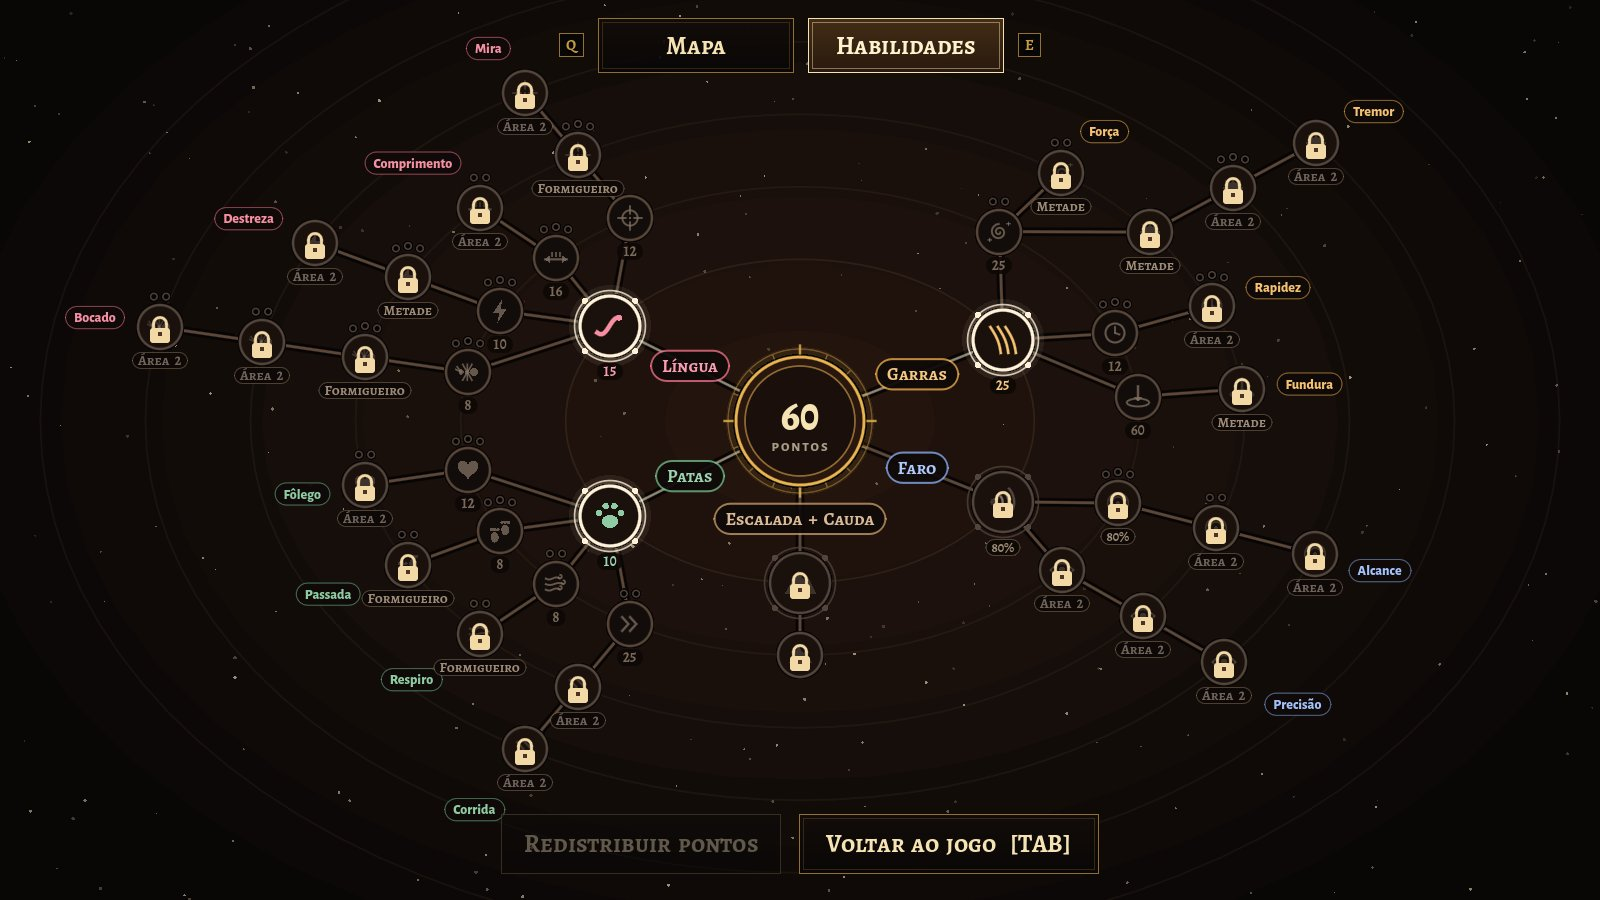
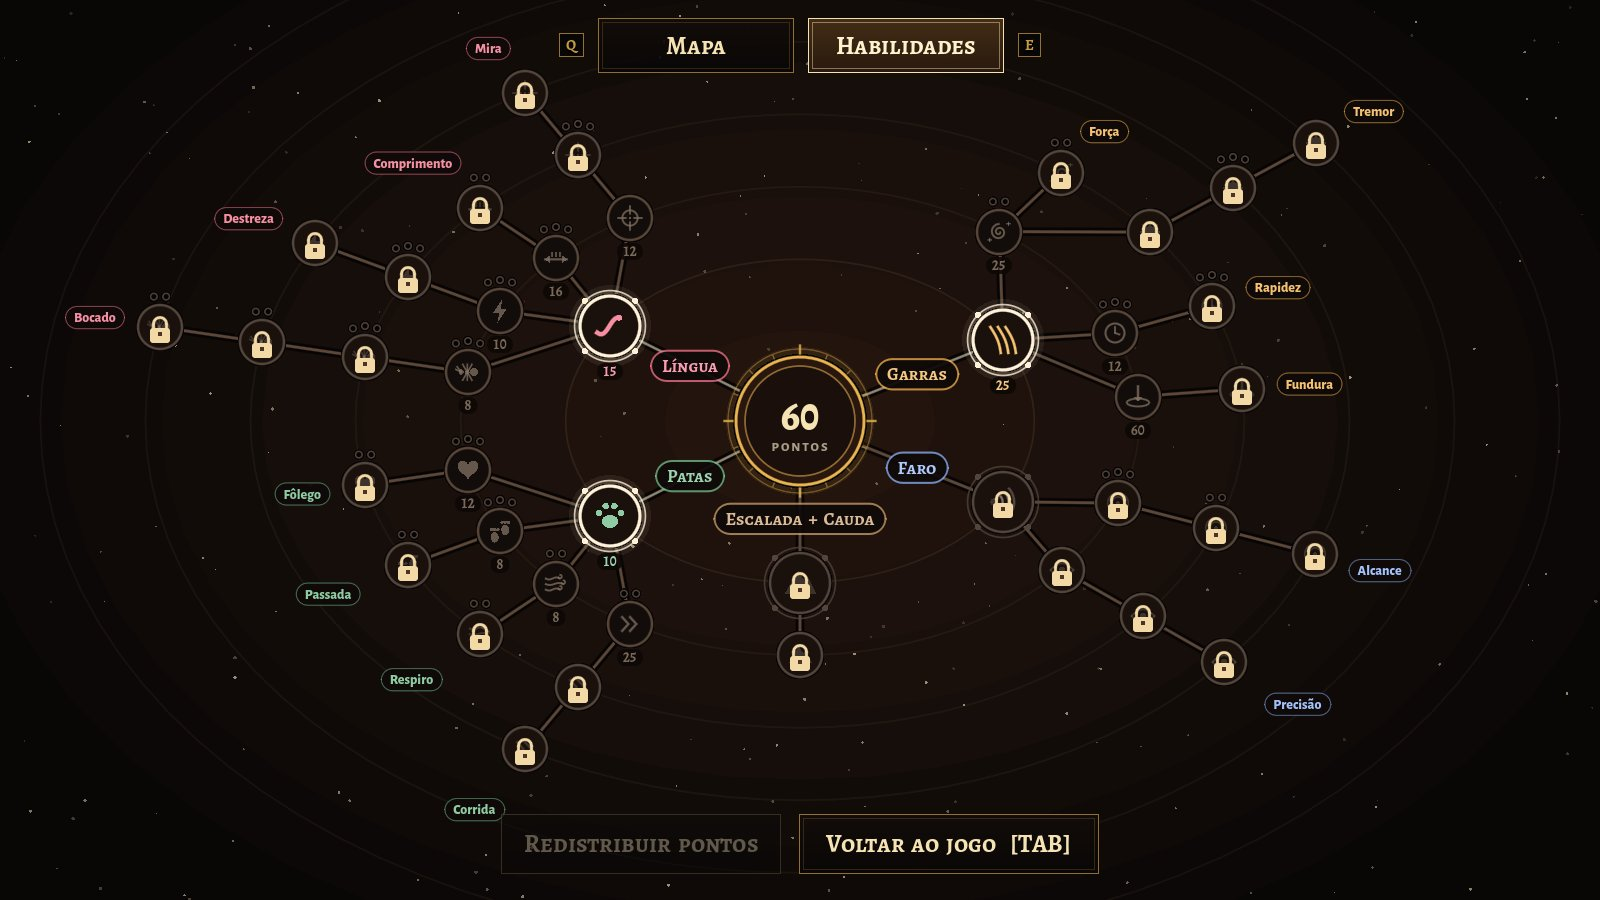
Árvore: tira o texto embaixo dos cadeados
Os nós travados mostram só o cadeado, sem "Formigueiro", "Metade", "80%"
ou "Área 2" embaixo.

Claude-Session: https://claude.ai/code/session_01PK3zBhGKGNdhTPcPbN78xy

diff --git a/docs/DESIGN.md b/docs/DESIGN.md
@@ -249,9 +249,8 @@ ela abre: **Formigueiro** (marco 1, o primeiro formigueiro limpo), **Metade**
 | **Escalada + Cauda** | | Escalada (300) · Cauda Preênsil (400): ainda não feitas, aparecem com cadeado |
 
 **Habilidades por região:** o que é da área 2 (a **Escalada + Cauda** e os
-níveis mais fortes das linhas) aparece na árvore desde o começo, com um
-cadeado e "Área 2" embaixo. O que espera um marco aparece com cadeado e o
-marco embaixo ("Formigueiro", "Metade", "80%"). Ao chegar num marco, um cartão
+níveis mais fortes das linhas) aparece na árvore desde o começo, só com um
+cadeado, sem texto (o mesmo para o que espera um marco). Ao chegar num marco, um cartão
 grande avisa quantas habilidades novas abriram.
 
 **Fora por enquanto:** Camuflagem (repete o que a Língua já faz) e Natação. O
@@ -382,7 +381,7 @@ Feito, seguindo as decisões:
    comer metade dos insetos (marco 2) e comer 80% (marco 3) abrem habilidades
    novas, com um cartão grande na tela ("4 habilidades novas na árvore"). No
    marco 3, o **Farejar** vem de presente e não sai ao redistribuir. Os níveis
-   mais fortes ficam para a área 2, com cadeado e "Área 2" na árvore.
+   mais fortes ficam para a área 2, com cadeado na árvore.
 23. **Objetivos (o tutorial guiado):** um cartão no canto, sempre visível, com
    o objetivo da vez e o progresso ("120 / 200"): andar com WASD, comer um
    inseto, comer 200, aprender uma habilidade, abrir uma câmara, limpar um
@@ -699,4 +698,5 @@ acertar a duração com testes.
 | 07/11/2026 | Lagoas | Água azul-acinzentada lisa e parada, beira de terra seca rachada | Água que reflete o céu do jogo (muda com a tarde) e uma faixa do paredão no fundo, com ondinhas que andam com o vento e brilho do sol; lama molhada escura e lisa na beira, com poças brilhando. Velocidade ≈2% menor (≈176 → ≈173 quadros por segundo) |
 | 08/11/2026 | Tamanho da área 1 | Uns 120 m de ponta a ponta, 18 formigueiros (11 pequenos e 7 grandes com rainha), 116 câmaras, 44 000 insetos e 4 lagoas | Uns 50 m, 8 formigueiros (5 pequenos, 2 médios e 1 grande com a rainha), 40 câmaras, 10 000 insetos e 1 lagoa; jogos salvos antigos não abrem |
 | 08/11/2026 | Quando as habilidades abrem | Nove travas por insetos comidos (200 a 21 000) | Desde o começo, em 3 marcos (o 1º formigueiro limpo, metade e 80%, com o Farejar de presente) ou só na área 2 |
+| 08/11/2026 | Cadeados da árvore | "Formigueiro", "Metade", "80%" ou "Área 2" embaixo do cadeado | Só o cadeado, sem texto |
 | 08/11/2026 | Tutorial | Só as dicas de controle embaixo da tela | Objetivos no canto, um de cada vez, com um losango que voa do cartão até o alvo; F mostra de novo |

diff --git a/docs/pesquisa-habilidades.md b/docs/pesquisa-habilidades.md
@@ -770,8 +770,8 @@ Ele vem **de presente**, não à venda: fica como prêmio por ter chegado lá
 - Cada marco mostra um cartão, como "Formigueiro limpo · 4 habilidades novas
   na árvore".
 
-**Na árvore:** o que é de outra área aparece com cadeado e "Área 2". O que
-espera um marco aparece com cadeado e o marco embaixo, como "1º formigueiro".
+**Na árvore:** o que ainda não abriu (de outra área ou esperando um marco)
+aparece só com o cadeado, sem texto (decidido pelo Caio em 08/11/2026).
 
 ### Área 1 menor (08/11: o Caio pediu 50 m)
 
@@ -818,7 +818,7 @@ espera um marco aparece com cadeado e o marco embaixo, como "1º formigueiro".
    uma lagoa só.
 2. **Marcos no lugar das travas:** o primeiro formigueiro limpo, metade e 80%
    (com o Farejar de presente), um cartão grande na tela a cada marco e, na
-   árvore, o cadeado com "Formigueiro", "Metade", "80%" ou "Área 2" embaixo.
+   árvore, só o cadeado (sem texto embaixo).
    Redistribuir continua de graça, e o presente não sai.
 3. **Jogos salvos antigos não abrem** (o mapa e as travas mudaram).
 4. **Bot na área 1:** seção 13.

diff --git a/README.md b/README.md
@@ -188,7 +188,7 @@ cada clique em pontos e, depois do ponto, **quando ela abre**. Sem nada, desde
 o começo. Os **marcos** da área 1 são: **Formigueiro** (o primeiro formigueiro
 limpo), **Metade** (metade dos insetos) e **80%** (80% dos insetos; o Farejar
 vem de presente). **Área 2** fica para depois da demo. Na árvore, o que ainda
-não abriu aparece com cadeado e o marco embaixo.
+não abriu aparece só com o cadeado.
 
 | Habilidade | Níveis (preço de cada clique · quando abre) |
 |---|---|
